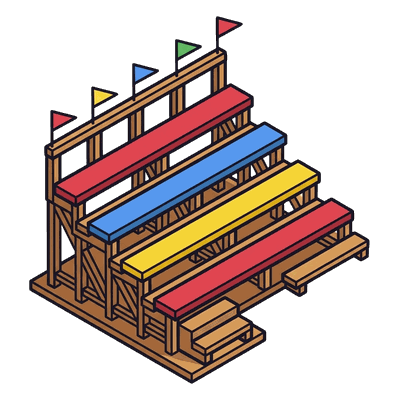
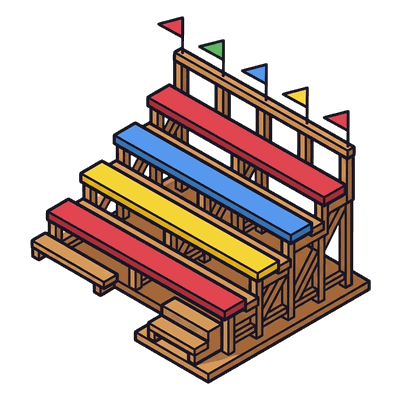
fix(race): fit the finish gantry and the grandstands to the track
The gantry art carried its own strip of road that did not line up with the
tiles: the road is cut out, the gantry is scaled so its pillars stand on the
two sidewalks, and the far pillar is a separate image that sorts behind cars
past the line. The grandstands are mirrored to face the track and sit right
behind the far sidewalk.

Claude-Session: https://claude.ai/code/session_01TYep6my4PBxgSJHqj9FDLV

diff --git a/apps/client/src/scenes/RaceScene.ts b/apps/client/src/scenes/RaceScene.ts
@@ -41,6 +41,7 @@ export class RaceScene extends Phaser.Scene {
 
   preload() {
     this.load.image('race_finish', 'race/finish.png');
+    this.load.image('race_finish_far', 'race/finish_far.png');
     this.load.image('race_stands', 'race/stands.png');
   }
 
@@ -64,17 +65,23 @@ export class RaceScene extends Phaser.Scene {
         .setLineWidth(4)
         .setDepth(-900);
     }
-    for (let x = 6; x < TRACK_TILES; x += 10) {
-      const p = isoToScreen(x, -2.4, ORIGIN);
-      this.add.image(p.x, p.y, 'race_stands').setOrigin(0.5, 0.85).setScale(0.45).setDepth(depthOf(x, -2.4));
+    // grandstands right behind the far sidewalk, facing the track (front corner on its outer edge)
+    for (let x = 8; x < TRACK_TILES; x += 10) {
+      const p = isoToScreen(x, -1, ORIGIN);
+      this.add.image(p.x, p.y, 'race_stands').setOrigin(0.52, 0.96).setScale(0.45).setDepth(depthOf(x, -1.5));
     }
+    // finish gantry: one pillar on each sidewalk, centred on the finish line. The far pillar is
+    // its own image so a car past the line is drawn in front of it; the banner and the near
+    // pillar sort with the rival's lane.
     const g = isoToScreen(TRACK_TILES, 1.5, ORIGIN);
-    this.add
-      .image(g.x, g.y + 18, 'race_finish')
-      .setFlipX(true)
-      .setOrigin(0.5, 0.78)
-      .setScale(0.8)
-      .setDepth(depthOf(TRACK_TILES, 3) + 5);
+    const gantry = (key: string, depth: number) =>
+      this.add
+        .image(g.x, g.y, key)
+        .setOrigin(0.5, 0.784)
+        .setScale(128 / 238)
+        .setDepth(depth);
+    gantry('race_finish_far', depthOf(TRACK_TILES, -0.5));
+    gantry('race_finish', depthOf(TRACK_TILES, LANE_RIVAL) + 0.01);
 
     const d = this.data_;
     this.rival = this.car(d.rival.sprite, d.rival.paint);
